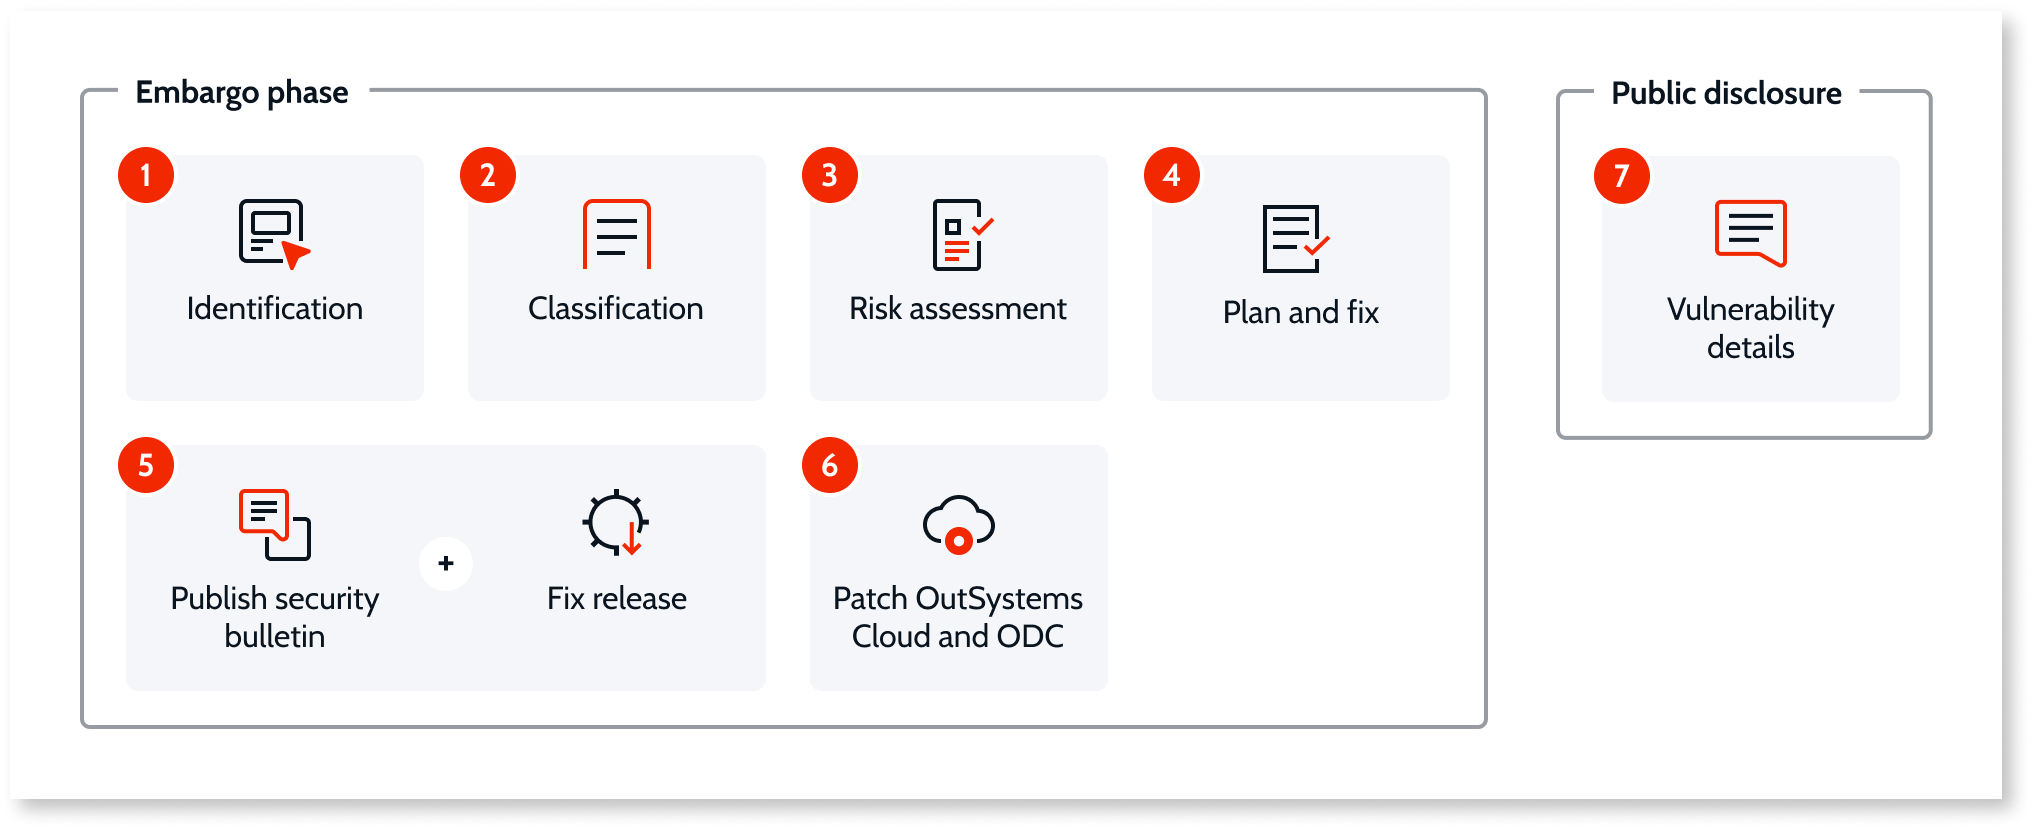
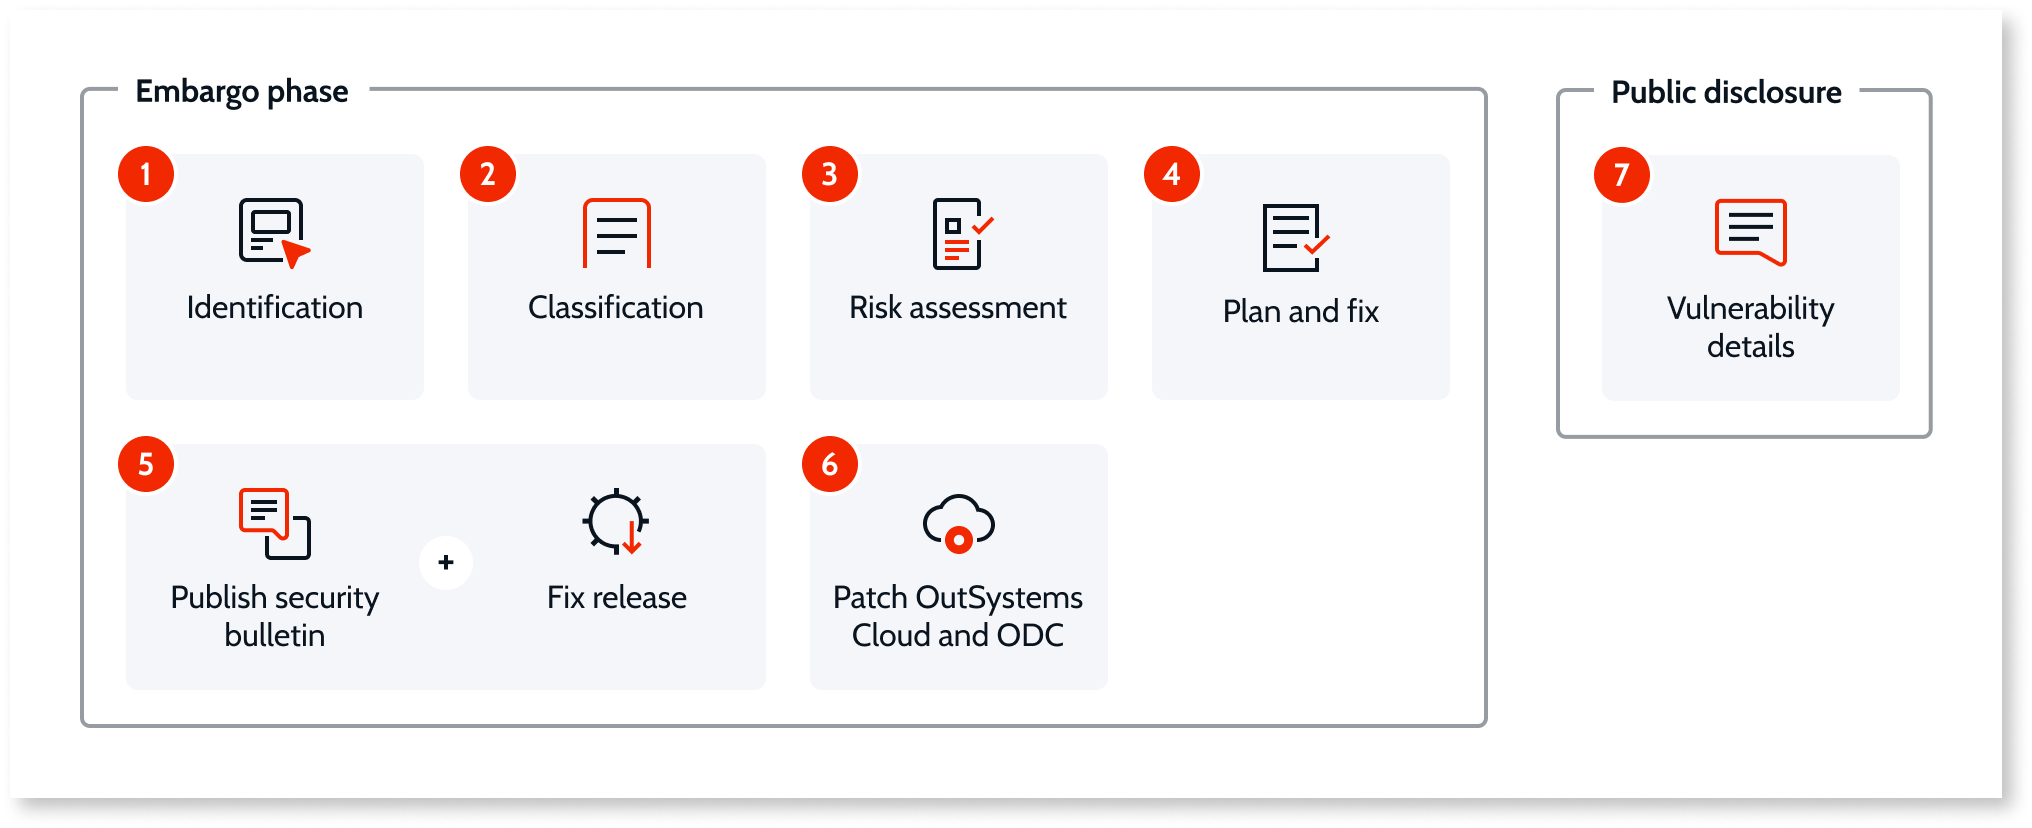
TK-25139 Update terminology (#2618)

diff --git a/src/security/vulnerabilities/intro.md b/src/security/vulnerabilities/intro.md
@@ -8,6 +8,12 @@ figma: https://www.figma.com/file/vTtFn5nl44ZLjUBYo2anCO/Security?type=design&no
 coverage-type:
   - understand
   - apply
+tags:
+  - Security
+audience:
+  - Developer
+  - Platform administrator
+isautopublish: true
 ---
 
 # Vulnerabilities
@@ -71,7 +77,7 @@ After analysis, if the findings are related to the OutSystems platform, please s
 
 #### How to submit a vulnerability report
 
-To submit a vulnerability report, use [Support Portal](https://www.outsystems.com/supportportal) by raising an incident.
+To submit a vulnerability report, use [Support Portal](https://www.outsystems.com/supportportal) to create a support case.
 
 Vulnerability reports must contain the following information:
 
@@ -89,7 +95,7 @@ Vulnerability reports must contain the following information:
     1. Go to https://[URL]/users?uid=2
     1. Confirm you’re seeing the details of another user.
 
-If this information isn't consistently provided, the support case may ultimately be closed. There should be only one vulnerability being addressed per incident in order to facilitate the communication and the proper investigation.
+If this information isn't consistently provided, the support case may ultimately be closed. There should be only one vulnerability being addressed per support case in order to facilitate the communication and the proper investigation.
 
 Reports will be handled within the [scope and SLA's](https://success.outsystems.com/Support/Enterprise_Customers/OutSystems_Support/Support_terms_and_service_level_agreements_(SLA)_of_the_OutSystems_software) of customers' and partners' contracts.
 
